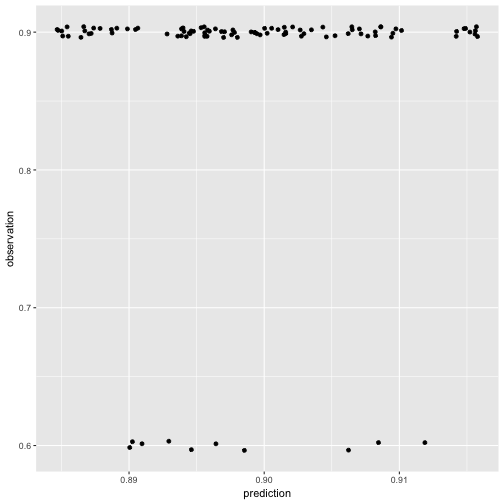
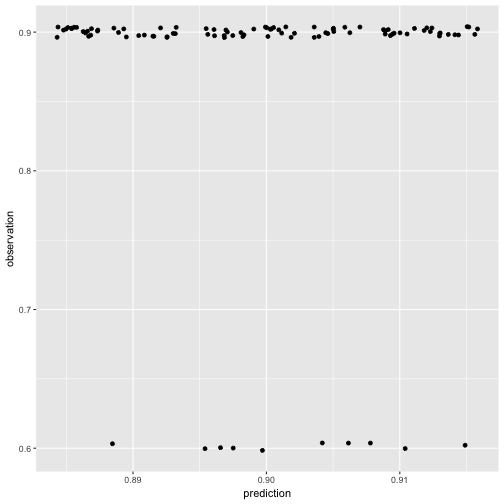
Savage-DIckey start

diff --git a/_posts/2017-02-27-CorrelationMultinomial.md b/_posts/2017-02-27-CorrelationMultinomial.md
@@ -121,7 +121,7 @@ show(qplot(pred, obs) + ylab("observation") + xlab('prediction'))
 ![plot of chunk unnamed-chunk-5](/mfpics/2017-02-27-CorrelationMultinomial.Rmd/unnamed-chunk-5-1.png)
  
  
-The correlation score of 0.9709 is very high (and immensely significant). We are heading towards a publication here!
+The correlation score of 0.9716 is very high (and immensely significant). We are heading towards a publication here!
  
 But wait a minute. Actually, half of our prediction values are superfluous in a sense. If we predict choice probability $$p$$ for one option, the model must predict $$1-p$$ for the other, of course. Similarly if the observed choice frequency of one option is $$f$$, that of the other must be $$1-f$$. So what happens if we scrap the redundant part of our data? Let's grab the predictions and frequencies for only one of the two options:
  
@@ -134,7 +134,7 @@ show(qplot(predInd, obsInd) + ylab("observation") + xlab('prediction'))
 
 ![plot of chunk unnamed-chunk-6](/mfpics/2017-02-27-CorrelationMultinomial.Rmd/unnamed-chunk-6-1.png)
  
-That doesn't look like a tremendous achievement anymore and, indeed, the correlation score is a poor man's 0.0362. 
+That doesn't look like a tremendous achievement anymore and, indeed, the correlation score is a poor man's -0.0836. 
  
 Bottomline: if we look at what the model predicts for both choice options, we get a very high correlation. But predictions and observations for one choice option fully determine the other, so this part of the information seems entirely redundant. Yet, if we leave it out, our measure of glory plummets. What to make of this?
  

diff --git a/_posts/2017-07-07-BF_computation.md b/_posts/2017-07-07-BF_computation.md
@@ -167,6 +167,7 @@ $$
 \begin{align*}
 \frac{P(D \mid M_0)}{P(D \mid M_1)} & = \frac{P(\theta = 0.5 \mid D, M_1)}{P(\theta = 0.5 \mid M_1)} \\
   & = \frac{\text{Beta}(\theta = 0.5 \mid 8, 18)}{1} \approx 1
+\end{align*}
 $$
  
 This derivation uses the fact that the beta distribution is a conjugate prior for the binomial likelihood function, so that we can easily compute the posterior of $$\theta$$ after seeing data analytically, just using the beta function again.
